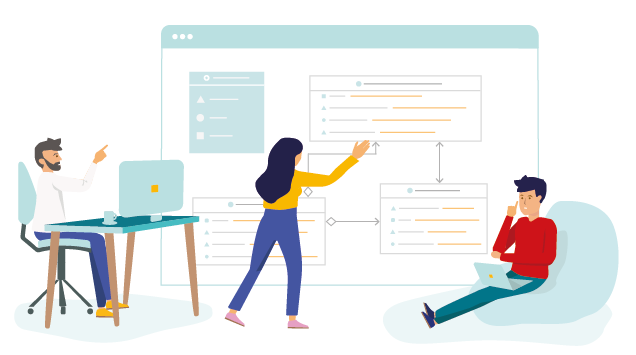
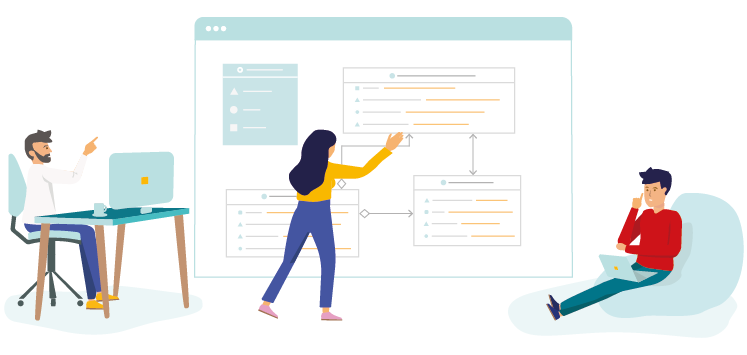
Update overview illustration

Changed region(s): [[0.0, 0.031, 1.0, 0.9296], [0.6274, 0.4648, 0.6572, 0.4958]]

diff --git a/fonctionnalites.html b/fonctionnalites.html
@@ -117,7 +117,7 @@ title: Information System Designer | Fonctionnalités - Vue d'ensemble
             lnk_icon=""
 
             img_order="order-2"
-            img_src="images/illustrations/sirius-overview.png"
+            img_src="images/illustrations/isdesigner-overview.png"
             img_title="Génération de documents avec M2Doc"
         %}
     </div>

diff --git a/assets/css/main.css b/assets/css/main.css
@@ -20,6 +20,9 @@
 .card.banner a:hover {
     color: #FBB800;
 }
+#intro .col-md-7 img {
+    width: 100%;
+  }
 
 @media only screen and (max-width: 1199px){
 body {
